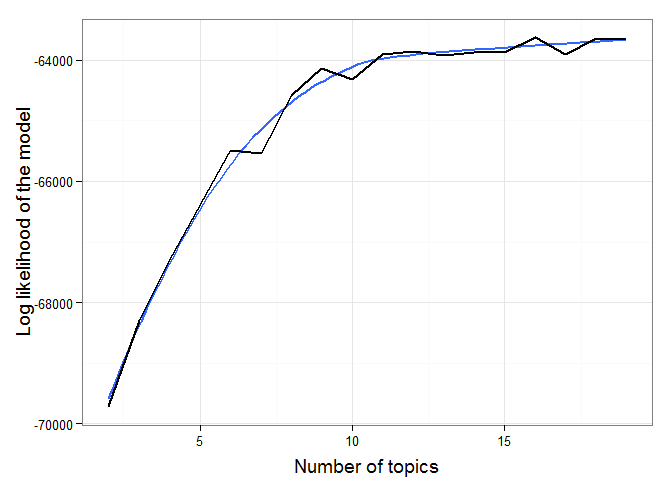
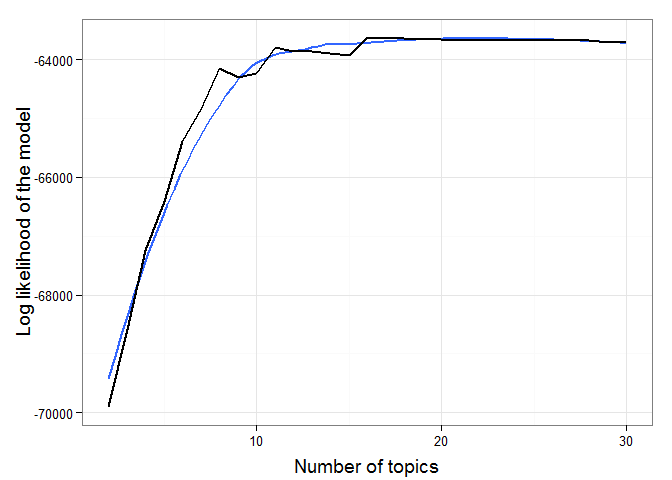
updated readme

diff --git a/README.md b/README.md
@@ -366,9 +366,14 @@ The .R script for this demonstration can be downloaded from
 The plot below shows the log likelihoods against k (number of topics).
 It appears the optimal number of topics is between 10 and 20.
 
-    optimal_k(doc_term_mat, 19)
+    optimal_k(doc_term_mat)
 
-    ## 10 of 19 iterations (Time elapsed: .2 mins)
+    ## 
+    ## Grab a cup of coffee this is gonna take a while...
+
+    ## 10 of 30 iterations (Time elapsed: .1 mins)
+    ## 20 of 30 iterations (Time elapsed: .6 mins)
+    ## 30 of 30 iterations (Time elapsed: 1.3 mins)
 
     ## geom_smooth: method="auto" and size of largest group is <1000, so using loess. Use 'method = x' to change the smoothing method.
 
@@ -376,7 +381,7 @@ It appears the optimal number of topics is between 10 and 20.
 
 ### Run the Model
 
-    lda_model <- topicmodels::LDA(doc_term_mat, k = 20, control = list(seed=100))
+    lda_model <- topicmodels::LDA(doc_term_mat, k = 19, control = list(seed=100))
 
 ### Plot the Topics Per Person & Time
 
